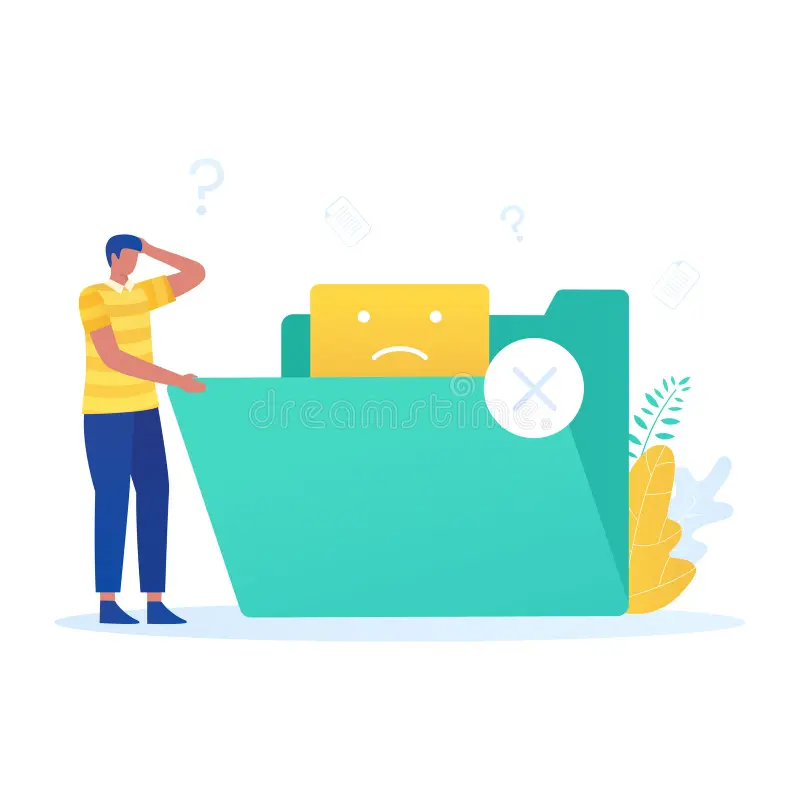
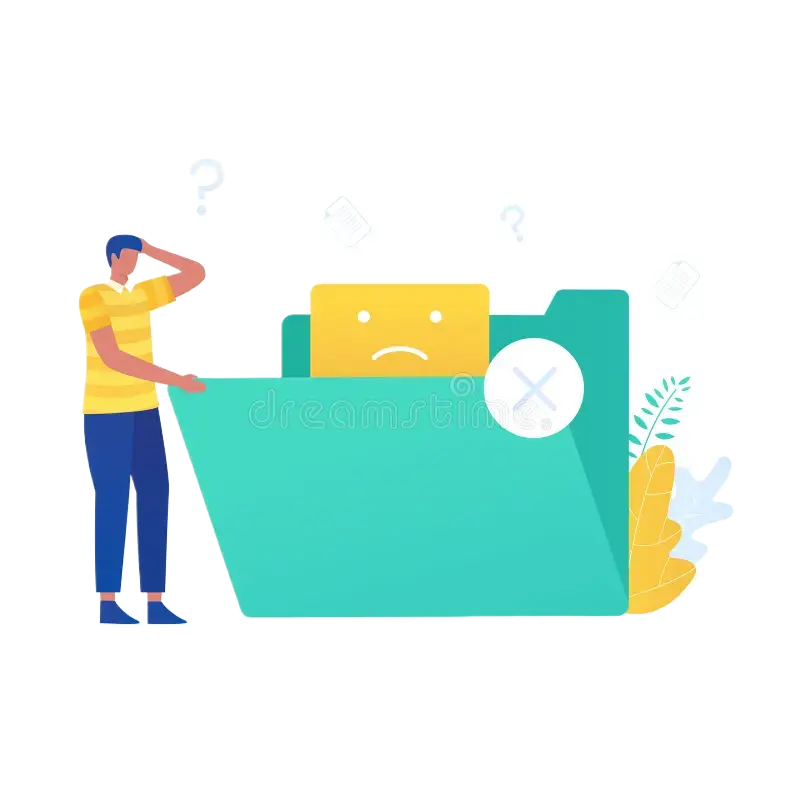
fix : Remove background color of image

diff --git a/Frontend/src/app/home/components/reports.tsx b/Frontend/src/app/home/components/reports.tsx
@@ -27,7 +27,7 @@ export default function Reports({ searchQuery }: ReportsProps) {
 
 	if (!reportsData || reportsData.length === 0) {
 		return (
-			<div className="flex flex-col gap-2 justify-center items-center h-[70vh] text-2xl text-side">
+			<div className="flex flex-col gap-2 bg-white justify-center items-center h-[70vh] text-2xl text-side">
 				<Image width={200} height={200} src={no_reports} alt="home-icon" />
 				No reports available...
 			</div>
